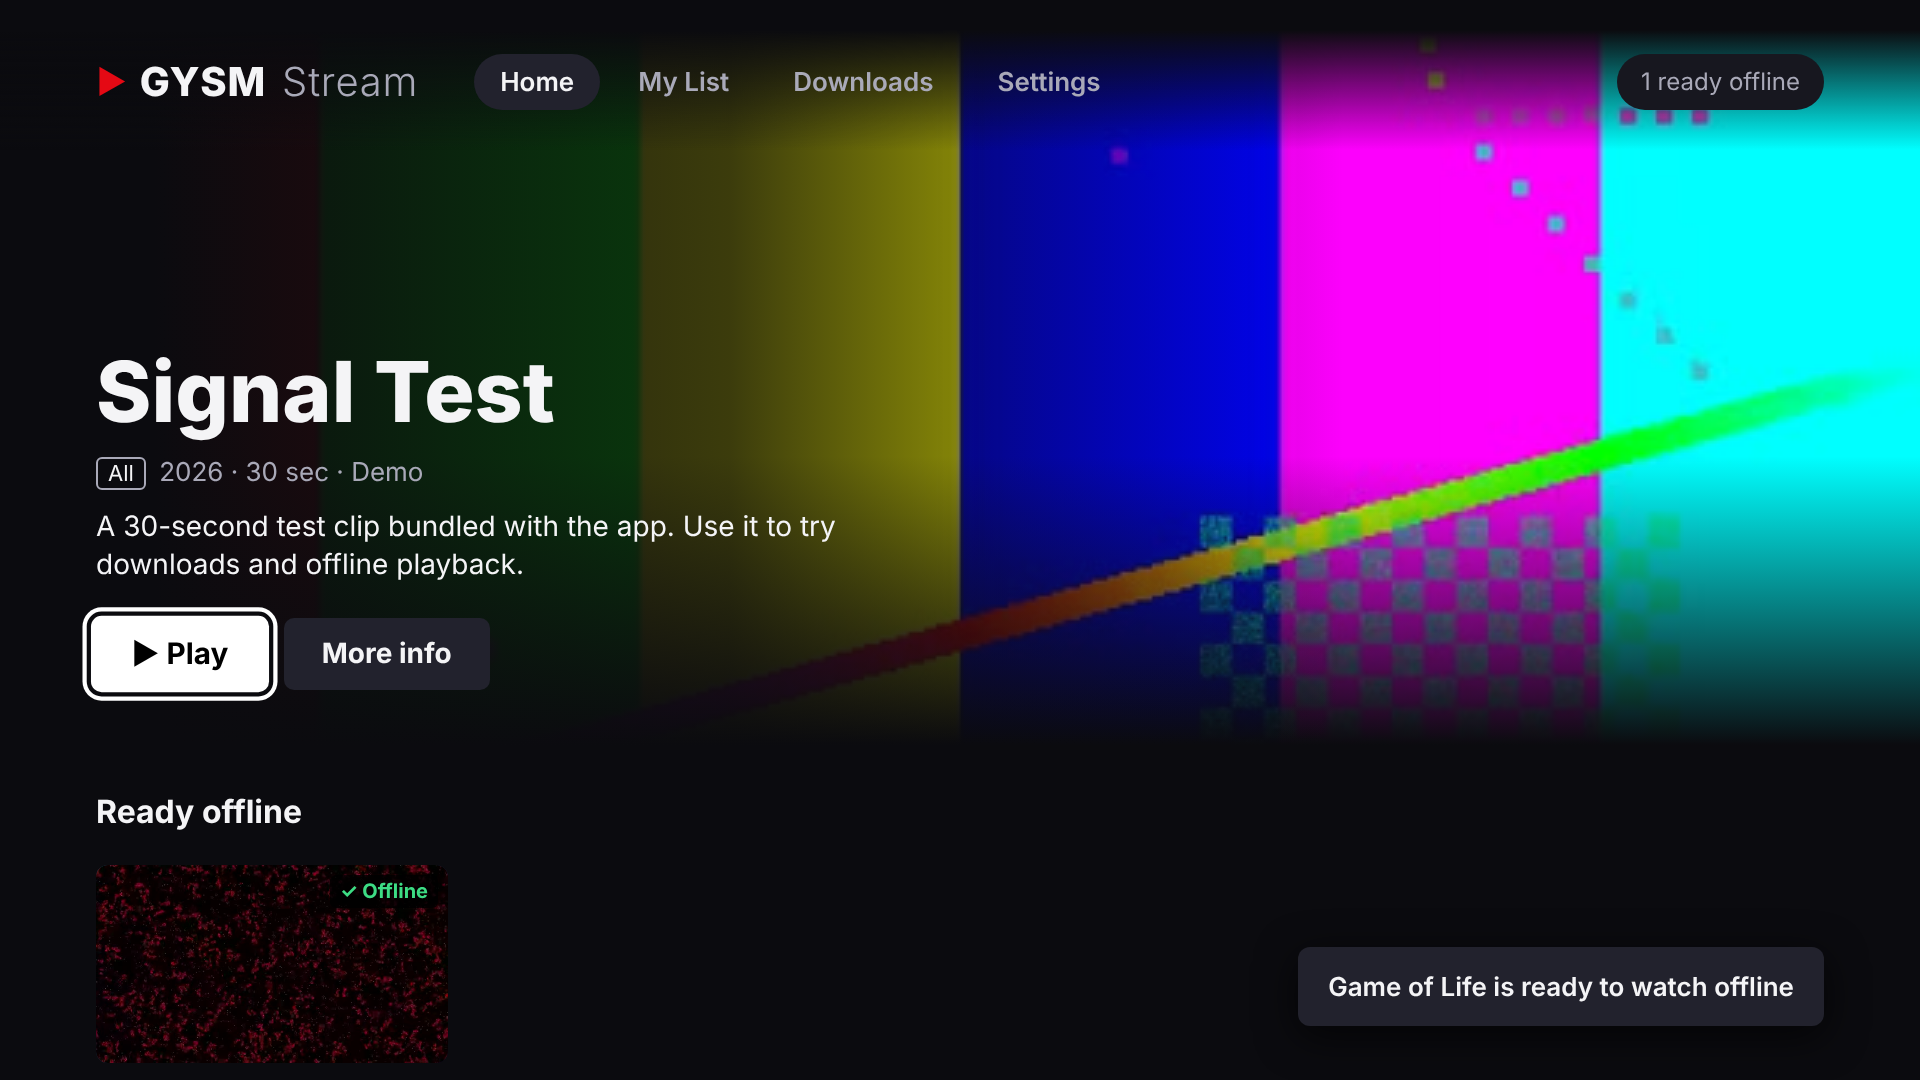
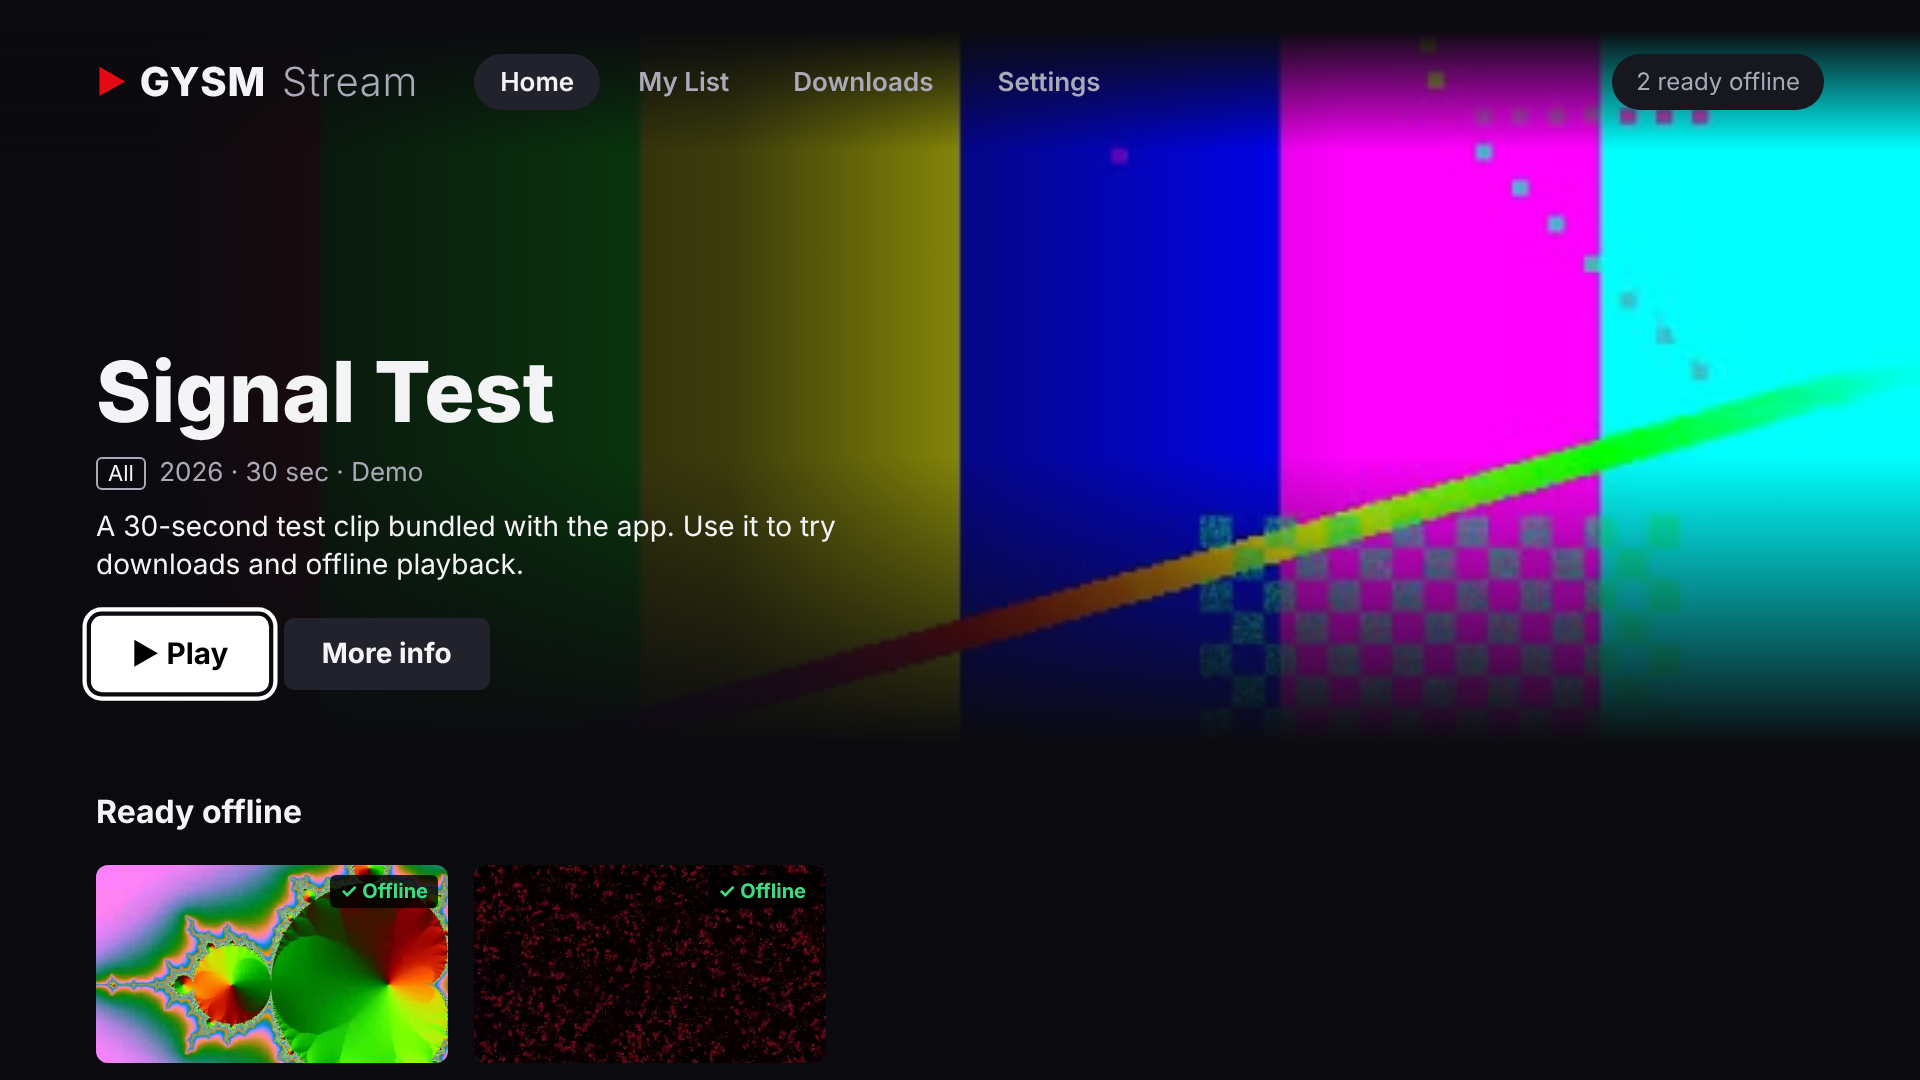
Prepare Amazon Appstore submission package
Adds the 1280x720 Fire TV icon, a JPEG background, logo files, six
1920x1080 screenshots, listing text, a privacy policy page and a
step-by-step submission checklist with content-rating guidance. Release
builds are signed (v1 and v2) from an untracked keystore.properties.
Bundled demo clips now only appear when no real film is available, and
the details-screen progress bar stays inside its block.

Claude-Session: https://claude.ai/code/session_01TDdptcpVLbU3ZKG9jLTXbv

Changed region(s): [[0.0312, 0.7944, 0.4375, 1.0], [0.6562, 0.8556, 0.9688, 0.9472]]

diff --git a/stream/store-assets/privacy-policy.html b/stream/store-assets/privacy-policy.html
@@ -1,0 +1,61 @@
+<!doctype html>
+<html lang="en">
+<head>
+  <meta charset="utf-8">
+  <meta name="viewport" content="width=device-width, initial-scale=1">
+  <title>GYSM Stream Privacy Policy</title>
+  <style>
+    :root { --bg: #ffffff; --text: #1d1d24; --muted: #5b5b68; --line: #e4e4ea; }
+    @media (prefers-color-scheme: dark) { :root { --bg: #0b0b0f; --text: #f4f4f6; --muted: #a9a9b8; --line: #2a2a35; } }
+    body { margin: 0; background: var(--bg); color: var(--text); font: 17px/1.6 system-ui, -apple-system, 'Segoe UI', Roboto, sans-serif; }
+    main { max-width: 720px; margin: 0 auto; padding: 40px 16px 64px; }
+    h1 { font-size: 30px; line-height: 1.2; margin: 0 0 4px; }
+    h2 { font-size: 20px; margin: 32px 0 8px; }
+    p, li { color: var(--text); }
+    .updated { color: var(--muted); margin: 0 0 24px; }
+    ul { padding-left: 22px; }
+    hr { border: 0; border-top: 1px solid var(--line); margin: 32px 0; }
+  </style>
+</head>
+<body>
+<main>
+  <h1>GYSM Stream Privacy Policy</h1>
+  <p class="updated">Last updated: 29 October 2026</p>
+
+  <p>GYSM Stream is a film app for Amazon Fire TV. We built it to work without collecting personal information. This page explains what the app stores, what it sends over the internet, and the choices you have.</p>
+
+  <h2>What we collect</h2>
+  <p>Nothing. GYSM Stream has no accounts, no sign-up, no advertising and no analytics. We do not collect your name, email address, location, device identifiers or viewing history, and we do not sell or share any information about you.</p>
+
+  <h2>What the app stores on your device</h2>
+  <p>To work, the app keeps the following <strong>only on your Fire TV</strong>. It is never sent to us:</p>
+  <ul>
+    <li>your settings (for example the storage limit and download quality)</li>
+    <li>the titles you add to My List</li>
+    <li>where you stopped in each film, so you can resume</li>
+    <li>films, artwork and subtitles you download, or that smart downloads saves for you</li>
+    <li>a total of how much data offline viewing has saved</li>
+  </ul>
+  <p>You can remove downloads at any time on the Downloads screen. Uninstalling the app, or clearing its data in <em>Settings → Applications</em> on your Fire TV, deletes all of it.</p>
+
+  <h2>Internet connections</h2>
+  <p>To show and play films, the app connects to:</p>
+  <ul>
+    <li><strong>Wikimedia Commons</strong> (commons.wikimedia.org and upload.wikimedia.org), which hosts the open and public-domain films. Wikimedia's own <a href="https://foundation.wikimedia.org/wiki/Policy:Privacy_policy">privacy policy</a> applies to those requests.</li>
+    <li><strong>Our content servers</strong>, which host licensed films and their artwork.</li>
+  </ul>
+  <p>Like any website or app, these servers receive standard technical information that comes with every internet request, such as your IP address and the file requested. We use our server logs only to deliver films and keep the service running, and we do not combine them with any other information.</p>
+  <p>The app also checks whether your network is metered, so it can avoid downloading on mobile data if you have chosen that. This check happens on your device and is not sent anywhere.</p>
+
+  <h2>Children</h2>
+  <p>GYSM Stream is not directed at children under 13, and we do not knowingly collect information from anyone, including children. Some films are rated 16+; you can hide them in Settings.</p>
+
+  <h2>Changes</h2>
+  <p>If this policy changes, we will update this page and the date at the top.</p>
+
+  <hr>
+  <h2>Contact</h2>
+  <p>Questions about privacy: <strong>your support email address</strong></p>
+</main>
+</body>
+</html>

diff --git a/stream/web/js/app.js b/stream/web/js/app.js
@@ -23,8 +23,16 @@ const state = {
 
 // ---- helpers -------------------------------------------------------------
 
+// The bundled demo clips only show while no real film is available (first
+// start with no connection), so the store build never looks like test content.
+function hasRealFilms() {
+  return TITLES.some((t) => !t.local && !state.missing.has(t.id) && (t.filmhub || cachedSource(t)));
+}
+
 function visibleTitles() {
-  return TITLES.filter((t) => !(settings.hideMature && t.maturity === '16+') && !state.missing.has(t.id));
+  const showDemos = !hasRealFilms();
+  return TITLES.filter((t) => !(settings.hideMature && t.maturity === '16+') && !state.missing.has(t.id)
+    && (showDemos || !t.local || dl.isDownloaded(t.id)));
 }
 
 function posterOf(t) {
@@ -244,7 +252,7 @@ function detailsHtml(t) {
         <button class="btn focusable" data-key="d:dl" data-id="${t.id}" data-act="dl" ${dl.canDownload(t.id) || dl.records[t.id] ? '' : 'disabled'}>${dlButtonLabel(t.id)}</button>
         <button class="btn focusable" data-key="d:list" data-id="${t.id}" data-act="list">${myList.has(t.id) ? '✓ In My List' : '+ My List'}</button>
       </div>
-      <p class="details__dl">${dlLine}${dlBar(t.id)}</p>
+      <div class="details__dl">${dlLine}${dlBar(t.id)}</div>
       <p class="details__licence">${esc(licenceText(t, src))}</p>
       ${playable(t) ? '' : '<p class="notice">Connect to the internet to watch, or download this title next time you are online.</p>'}
     </div>`;

diff --git a/stream/web/js/catalog.js b/stream/web/js/catalog.js
@@ -13,7 +13,7 @@ export const COLLECTIONS = [
   { id: 'open', title: 'Blender open movies' },
   { id: 'classic', title: 'Classic cinema' },
   { id: 'short', title: 'Under 15 minutes' },
-  { id: 'demo', title: 'Demo clips (bundled, always downloadable)' },
+  { id: 'demo', title: 'Try offline viewing' },
 ];
 
 export const TITLES = [

diff --git a/stream/store-assets/SUBMISSION.md b/stream/store-assets/SUBMISSION.md
@@ -1,0 +1,97 @@
+# Amazon Appstore submission checklist: GYSM Stream
+
+Everything for the Developer Console is in this folder. Work through the steps in order. Items marked **you** need your details or your computer.
+
+## 1. Before you start (you)
+
+- [ ] Amazon Developer account at https://developer.amazon.com (free). Accept the Developer Services Agreement.
+- [ ] A support email address and a website.
+- [ ] Host `privacy-policy.html` at a public URL, for example `https://gysm.io/privacy`. First replace "your support email address" in it with your real address.
+- [ ] Replace the placeholders under "Contact details" in `listing.md`.
+- [ ] A Fire TV device to test on.
+
+## 2. Build the signed release APK (you)
+
+You need Android Studio (or the Android SDK command-line tools) and JDK 17.
+
+1. Create your signing key once, and **back it up**. Every future update must be signed with the same key.
+   ```bash
+   cd stream/android
+   keytool -genkeypair -v -keystore gysm-release.jks -alias gysm -keyalg RSA -keysize 4096 -validity 10000
+   ```
+2. Copy `keystore.properties.example` to `keystore.properties` and fill in the passwords. Git ignores this file.
+3. Make sure `stream/web/catalog/filmhub.json` contains only titles you license (it is empty by default), and that there is no `stream/web/filmhub-media/` folder. Everything in `stream/web/` goes into the APK.
+4. Build:
+   - Android Studio: open `stream/android`, then **Build → Generate Signed Bundle / APK → APK → release**, or
+   - Command line: `gradle assembleRelease`
+5. The APK is `stream/android/app/build/outputs/apk/release/app-release.apk`. It is signed with v1 and v2 signatures, as Fire OS 8 requires.
+
+## 3. Test on a Fire TV (you)
+
+Install it with `adb install -r app-release.apk` (see the README for turning on ADB), then check:
+
+- [ ] The app appears under Your Apps & Channels with the GYSM banner
+- [ ] Everything works with the remote alone: D-pad, Select, Back, Menu, Play/Pause, Rewind, Fast-forward
+- [ ] Back on the home screen returns to the Fire TV launcher
+- [ ] Pressing Home during a film pauses it
+- [ ] Films load and play (open movies and classics come from Wikimedia Commons)
+- [ ] Smart downloads start on Wi-Fi; with the network unplugged, saved films still play
+- [ ] Nothing is cut off at the screen edges
+- [ ] Optional: replace the screenshots here with real captures (`adb shell screencap -p /sdcard/s.png && adb pull /sdcard/s.png`). The ones included were taken in a test browser, where only the bundled clips could load.
+
+## 4. Developer Console
+
+Go to **Apps & Services → My Apps → Add New App → Android** (Fire OS apps are Android apps).
+
+### Availability and pricing
+- Price: Free
+- Countries: worldwide for the free films. If you add Filmhub titles, set CDN geo-blocking to match their territories.
+
+### Appstore details: text
+Copy the text from `listing.md`: title, short description, long description, feature bullets and keywords.
+
+### Appstore details: images
+| Console field | File |
+| --- | --- |
+| Small icon (114×114, transparent PNG) | `icon-114.png` |
+| Large icon (512×512, transparent PNG) | `icon-512.png` |
+| Fire TV icon (1280×720, PNG, no transparency) | `fire-tv-icon-1280x720.png` |
+| Fire TV background (1920×1080) | `background-1920x1080.jpg` (a PNG copy is also included) |
+| Screenshots (3 to 10, 1920×1080) | `screenshot-1-home.png` to `screenshot-6-offline-player.png` |
+
+Logo files for your website or press are in `logo/`.
+
+### Content rating
+Answer the questionnaire honestly for the whole catalogue. Suggested answers for the current films:
+
+| Topic | Suggested answer | Why |
+| --- | --- | --- |
+| Violence | Realistic violence: infrequent or mild (horror) | Night of the Living Dead, Nosferatu, Carnival of Souls |
+| Horror or fear themes | Yes | Same titles |
+| Cartoon or fantasy violence | Infrequent or mild | Sintel, Agent 327, Tears of Steel |
+| Sexual content or nudity | None | |
+| Profanity or crude humour | Infrequent or mild | Older and independent films; review any Filmhub titles you add |
+| Drugs, alcohol or tobacco | Infrequent or mild | Classic films show smoking |
+| Gambling | None | |
+| Collects user data | No | See the privacy policy |
+| Account or login | No | |
+| Advertising | No | |
+| In-app purchases | No | |
+| Users can communicate with each other | No | |
+
+Expect a teen-level rating. The app shows its own age badges, and Settings can hide 16+ titles.
+
+### Binary files
+- [ ] Upload `app-release.apk`
+- [ ] Device support: select **Fire TV** devices. Tablets and phones are optional; the interface is designed for TVs.
+- [ ] Language: English
+- [ ] Export compliance: the app uses only standard HTTPS encryption
+
+### Testing instructions for the reviewer
+Paste this into the notes for Amazon's testers:
+
+> No login is needed. Films stream from Wikimedia Commons (open movies and public-domain classics). To test the offline feature, add a title to My List (press Menu on it) while on Wi-Fi, wait for "ready to watch offline", then disconnect the network: the title still plays from the Downloads screen. Settings controls the storage limit and the Wi-Fi-only rule. Credits for CC BY films are shown on each title's details screen and in the description.
+
+## 5. Submit
+
+Select **Submit App**. Review usually takes a few days, and Amazon emails you the result. If something fails, the email names the test case. Fix it, raise `versionCode` in `android/app/build.gradle.kts`, rebuild, and upload the new APK.

diff --git a/stream/store-assets/listing.md b/stream/store-assets/listing.md
@@ -1,0 +1,62 @@
+# Amazon Appstore listing text: GYSM Stream
+
+Paste these into the Developer Console under **Appstore Details**. The console shows the length limit for each field; all of these are well under them.
+
+## App title
+
+GYSM Stream
+
+## Short description
+
+Free films that download themselves. GYSM Stream saves films to your Fire TV in the background while you're on Wi-Fi, so they're ready to watch offline without using data. Watch classic cinema and award-winning open movies, and keep up to five titles ready on your device.
+
+## Long description
+
+GYSM Stream is a free film app built around one idea: your next film should already be on your TV.
+
+SMART DOWNLOADS
+While your Fire TV is on Wi-Fi or Ethernet, GYSM Stream quietly downloads films from Continue Watching, My List and our top picks. When the connection drops, or you'd rather not use mobile data, everything you've saved plays instantly, with no buffering and no data used. Finished a film? It is cleared away automatically and the next one is fetched, so your storage never fills up.
+
+YOU'RE IN CONTROL
+• Choose a storage limit, from 0.5 GB to 8 GB
+• Choose how many titles to keep ready
+• Download only on unmetered networks
+• Pick Data saver, Standard or HD quality
+• See how much data you have saved
+
+FILMS YOU'RE FREE TO KEEP
+Every film in GYSM Stream is licensed for streaming and offline viewing: Blender Foundation open movies such as Big Buck Bunny, Sintel and Tears of Steel (Creative Commons Attribution), public-domain classics such as Night of the Living Dead, Nosferatu and The General, and more films licensed from independent filmmakers.
+
+MADE FOR FIRE TV
+Designed for the remote: a simple D-pad interface, Play/Pause, Rewind and Fast-forward support, resume where you left off, subtitles where available, and age ratings on every title, with an option to hide 16+ titles.
+
+No account, no sign-up, no ads.
+
+Credits: films © Blender Foundation (www.blender.org), licensed CC BY. Public-domain films are served by Wikimedia Commons.
+
+## Product feature bullets
+
+- Downloads films automatically on Wi-Fi so you can watch offline
+- Plays saved films with no buffering and no data used
+- Clears watched films and fetches the next one
+- Storage limit, quality and network controls
+- Free, legally licensed films: no account, no ads
+- Made for the Fire TV remote, with resume and subtitles
+
+## Keywords
+
+free movies, offline, download, classic films, public domain, open movies, Blender, data saver, film, cinema
+
+## Category
+
+Movies & TV (pick the closest category the console offers for Fire TV apps)
+
+## Price
+
+Free
+
+## Contact details
+
+- Support email: **your support email address**
+- Website: **your site, for example https://gysm.io**
+- Privacy policy URL: **where you host `privacy-policy.html`, for example https://gysm.io/privacy**

diff --git a/stream/README.md b/stream/README.md
@@ -6,7 +6,7 @@ A streaming app for **Amazon Fire TV**. Its distinctive feature is **smart downl
 | --- | --- |
 | `web/` | The app (HTML, CSS, JavaScript, no dependencies). Runs in any browser and inside the Fire TV app. |
 | `android/` | Fire OS app: a Kotlin WebView shell that meets Amazon's Fire TV requirements. |
-| `store-assets/` | Amazon Appstore listing images: icons (512 and 114 px), 1920×1080 background, 1920×1080 screenshots. |
+| `store-assets/` | Everything for the Amazon Appstore: icons, Fire TV icon, background, screenshots, logos, listing text, privacy policy and the step-by-step [`SUBMISSION.md`](store-assets/SUBMISSION.md). |
 | `tools/filmhub-import.mjs` | Turns Filmhub delivery packages into the app's "More films" catalogue. See [Films from Filmhub](#films-from-filmhub). |
 
 ## Why there is no Netflix in it
